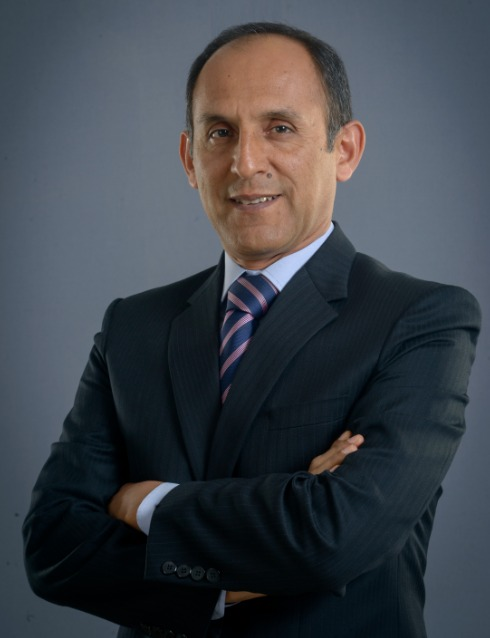
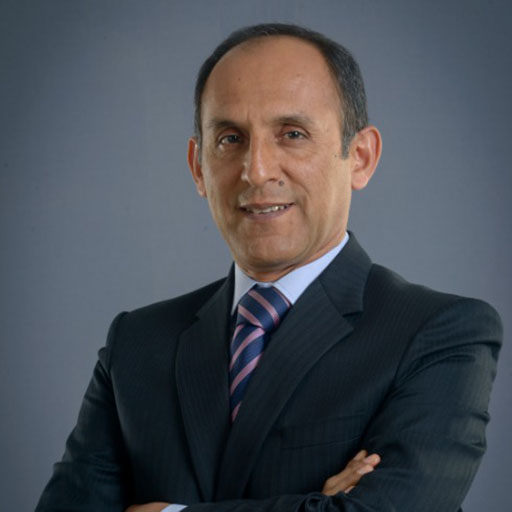
Redimensionando imagenes

diff --git a/assets/css/catec.css b/assets/css/catec.css
@@ -1,0 +1,96 @@
+/*Profile Card 3*/
+.profile-card-3 {
+    font-family: 'Open Sans', Arial, sans-serif;
+    position: relative;
+    float: left;
+    overflow: hidden;
+    width: 100%;
+    text-align: center;
+    height:368px;
+    border:none;
+  }
+  .profile-card-3 .background-block {
+      float: left;
+      width: 100%;
+      height: 200px;
+      overflow: hidden;
+  }
+  .profile-card-3 .background-block .background {
+    width:100%;
+    vertical-align: top;
+    opacity: 0.9;
+    -webkit-filter: blur(0.5px);
+    filter: blur(0.5px);
+     -webkit-transform: scale(1.8);
+    transform: scale(2.8);
+  }
+  .profile-card-3 .card-content {
+    width: 100%;
+    padding: 15px 25px;
+    color:#232323;
+    float:left;
+    background:#efefef;
+    height:50%;
+    border-radius:0 0 5px 5px;
+    position: relative;
+    z-index: 9999;
+  }
+  .profile-card-3 .card-content::before {
+      content: '';
+      background: #efefef;
+      width: 120%;
+      height: 100%;
+      left: 11px;
+      bottom: 51px;
+      position: absolute;
+      z-index: -1;
+      transform: rotate(-13deg);
+  }
+  .profile-card-3 .profile {
+    border-radius: 50%;
+    position: absolute;
+    bottom: 50%;
+    left: 50%;
+    max-width: 100px;
+    opacity: 1;
+    box-shadow: 3px 3px 20px rgba(0, 0, 0, 0.5);
+    border: 2px solid rgba(255, 255, 255, 1);
+    -webkit-transform: translate(-50%, 0%);
+    transform: translate(-50%, 0%);
+    z-index:99999;
+  }
+  .profile-card-3 h2 {
+    margin: 0 0 5px;
+    font-weight: 600;
+    font-size:25px;
+  }
+  .profile-card-3 h2 small {
+    display: block;
+    font-size: 15px;
+    margin-top:10px;
+  }
+  .profile-card-3 i {
+    display: inline-block;
+      font-size: 16px;
+      color: #232323;
+      text-align: center;
+      border: 1px solid #232323;
+      width: 30px;
+      height: 30px;
+      line-height: 30px;
+      border-radius: 50%;
+      margin:0 5px;
+  }
+  .profile-card-3 .icon-block{
+      float:left;
+      width:100%;
+      margin-top:15px;
+  }
+  .profile-card-3 .icon-block a{
+      text-decoration:none;
+  }
+  .profile-card-3 i:hover {
+    background-color:#232323;
+    color:#fff;
+    text-decoration:none;
+  }

diff --git a/assets/js/catec.js b/assets/js/catec.js
@@ -1,0 +1,17 @@
+var app= new Vue({
+    el: "#app",
+    data:{
+        ponentes:[]
+    },
+    methods:{
+        async listponentes(){
+            const response = await fetch('assets/json/ponentes.json');
+            const data = await response.json();
+            this.ponentes = data.ponentes;
+        },
+    },
+    created:function(){
+        this.listponentes()
+        
+    }
+})
